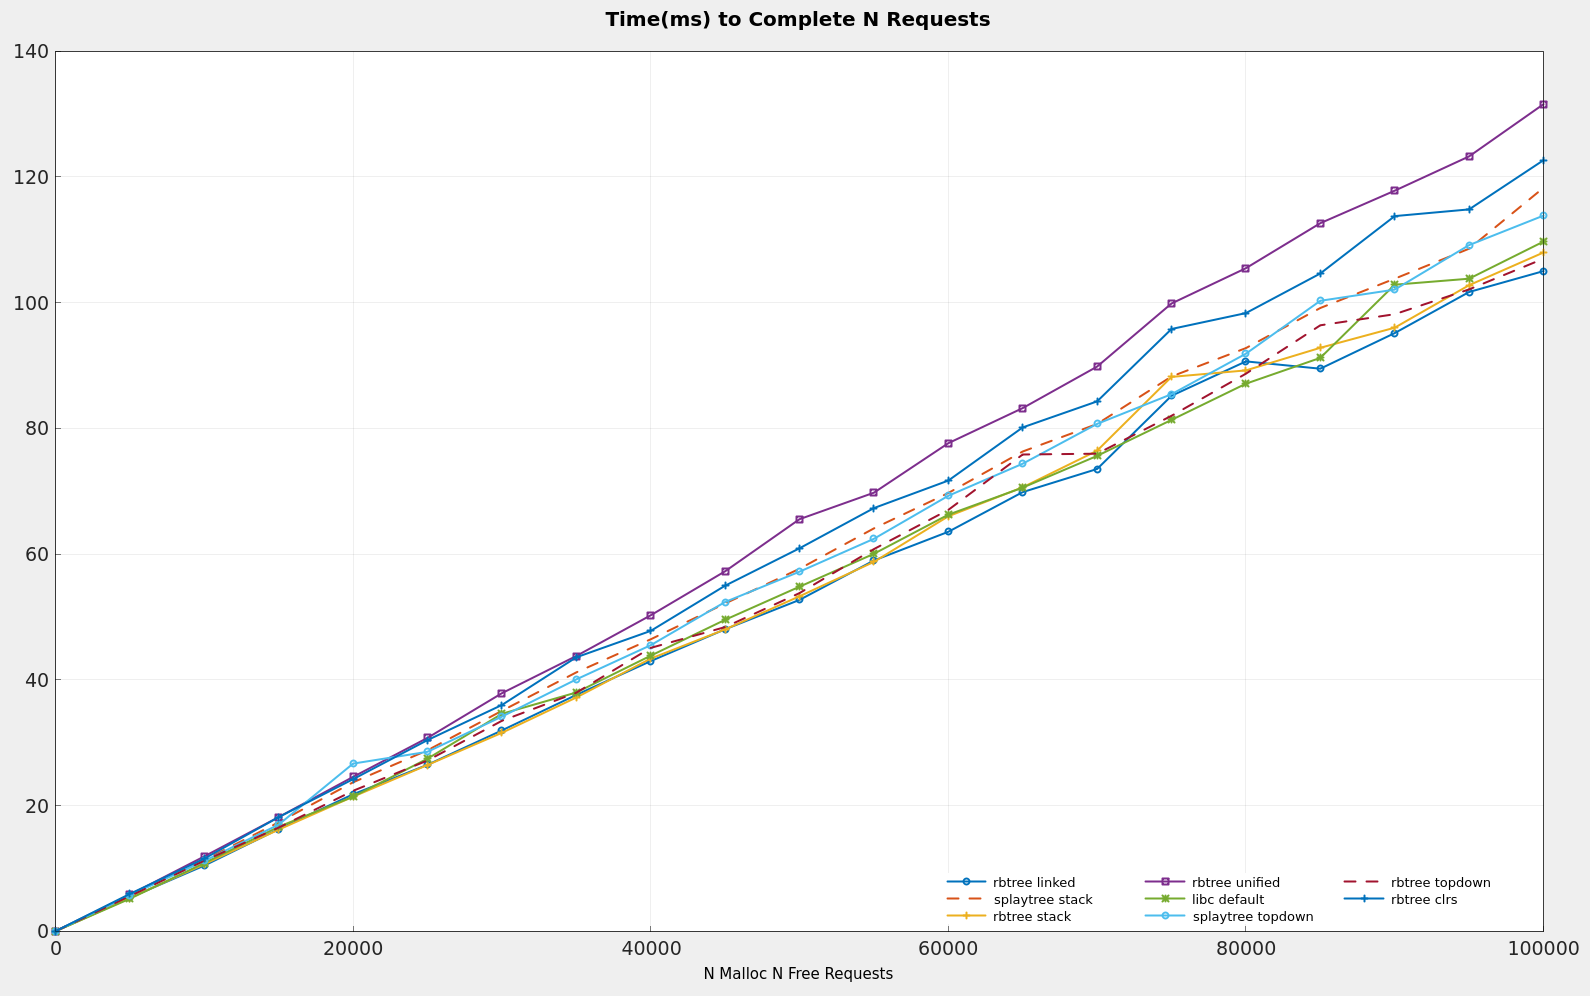
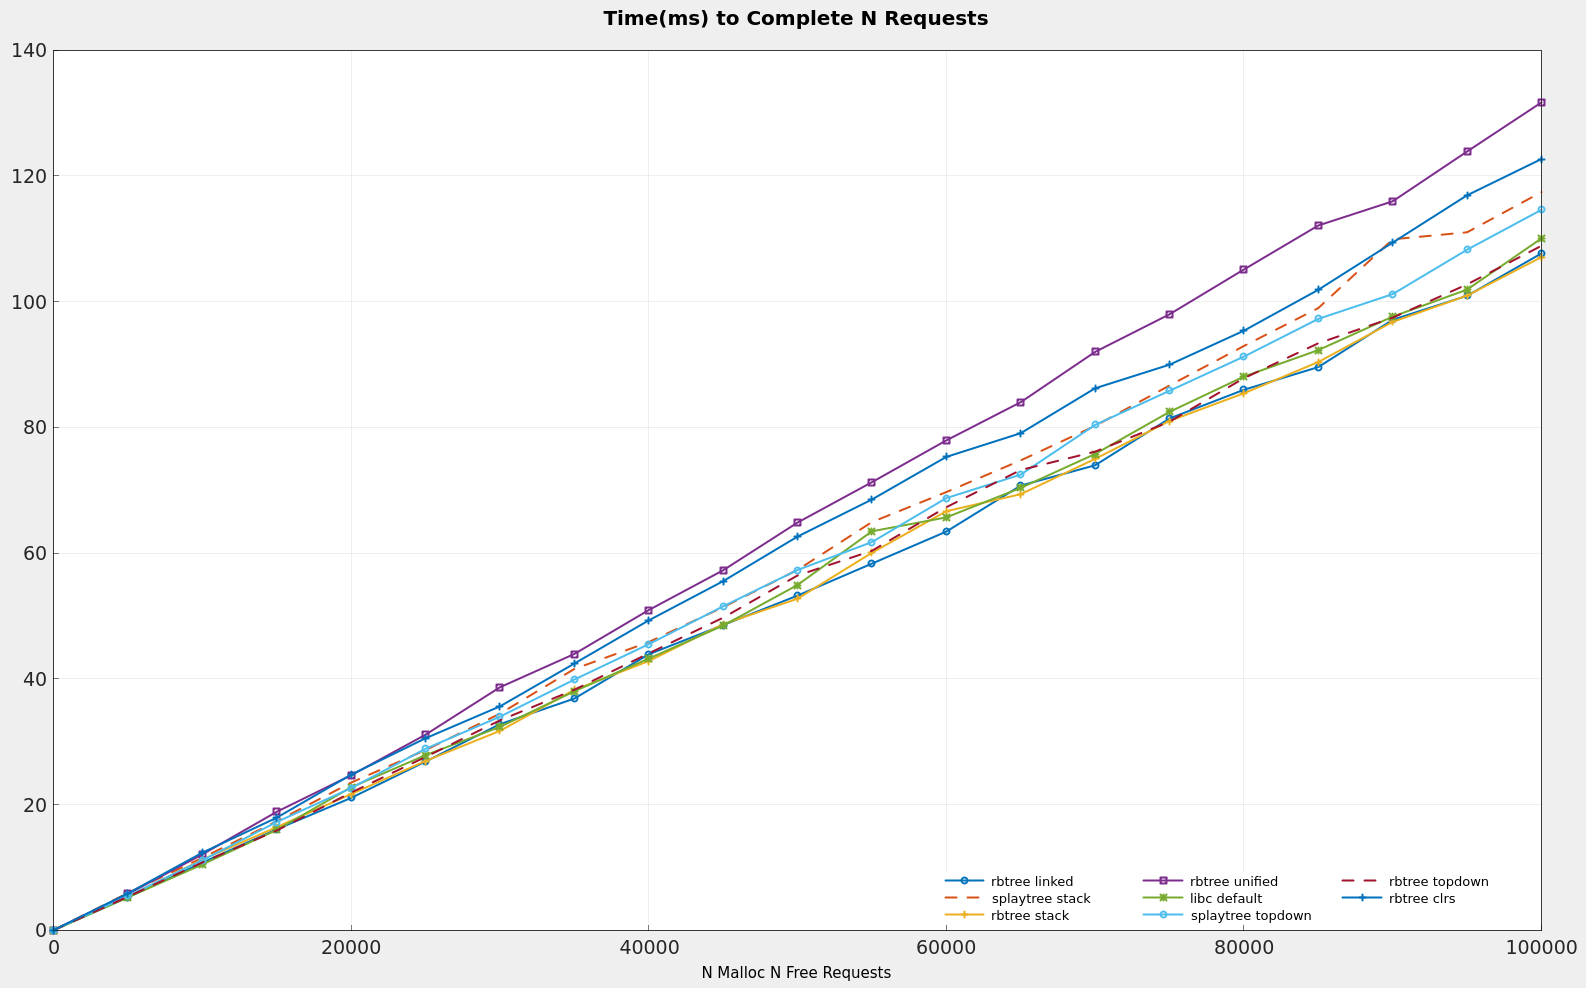
add graph

diff --git a/tests/plot.cc b/tests/plot.cc
@@ -584,9 +584,6 @@ void line_plot_stats( const runtime_metrics &m, data_set_type t, labels l, bool 
     axes->font_size( 14.0 );
     size_t tick_style = 0;
     for ( const auto &allocator : set( m, t ).second ) {
-        if ( allocator.first == "list segregated" ) {
-            continue;
-        }
         // Now we grab a "plot" where we want to put our actual data with x data and y data.
         auto plot = axes->plot( x_axis( m.overall_utilization ), allocator.second, line_ticks.at( tick_style ) );
         plot->line_width( 2 );
@@ -605,7 +602,7 @@ void line_plot_stats( const runtime_metrics &m, data_set_type t, labels l, bool 
     ::matplot::legend()->location( matplot::legend::general_alignment::bottomright );
     ::matplot::legend()->num_rows( 3 );
     ::matplot::legend()->box( false );
-    ::matplot::legend()->font_size( 12.0 );
+    ::matplot::legend()->font_size( 14.0 );
     p->size( 1920, 1080 );
     p->save( std::string( l.filename ) );
     matplot::hold( false );

diff --git a/docs/runtime_analysis.md b/docs/runtime_analysis.md
@@ -52,19 +52,19 @@ Here are the key details from the above graph.
 - Lower time in milliseconds is better.
 - The time complexity of inserting and deleting N elements into our tree is O(NlgN).
   - We may also see some extra time cost from breaking off extra space from a block that is too large and reinserting it into the tree. However, this is hard to predictably measure and does not seem to have an effect on the Big-O time complexity.
-- We see an improvement of ~10% in runtime speed when we manage duplicates with a doubly linked list to trim the tree.
-- The top-down approach to managing a Red-Black tree is not the fastest in terms of inserting and deleting from the tree, but it is extremely competitive.
+- We see a slight improvement in runtime speed when we manage duplicates with a doubly linked list to trim the tree.
+- The top-down approach to managing a Red-Black and Splay tree is not the fastest in terms of inserting and deleting from the tree, but it is extremely competitive.
 - These allocators clearly outperform the standard segregated fits allocator. However, it is tricky to pin down the runtime time complexity of the segregated list allocator exactly. It approaches an O(N^2) time complexity.
 
-Recall from the allocator summaries that we are required to manage duplicates in a Red-Black tree if we decide to abandon the parent field of the traditional node. The two approaches that trade the parent field for the pointer to a linked list of duplicates perform admirably: `rbtree_top-down` and `rbtree_stack`. The top-down approach is still an improvement over a traditional Red-Black tree, but surprisingly, the stack implementation that relies on the logical structure of the CLRS Red-Black tree is the winner in this competition. While I thought the `rbtree_linked` approach that uses a field for the `*parent`, `links[LEFT]`, `links[RIGHT]`, and `*list_start` would be the worst in terms of space efficiency, I thought we would gain some speed overall. We still need to measure coalescing performance, but this makes the `rbtree_linked` implementation seem the most pointless at this point if the same speed can be achieved with more space efficiency.
+Recall from the allocator summaries that we are required to manage duplicates in a Red-Black and Splay tree if we decide to abandon the parent field of the traditional node. The approaches that trade the parent field for the pointer to a linked list of duplicates perform admirably: `rbtree_top-down` and `rbtree_stack`. The top-down approach is still an improvement over a traditional trees, but surprisingly, the stack implementation that relies on the logical structure of the CLRS Red-Black tree is also close. While I thought the `rbtree_linked` approach that uses a field for the `*parent`, `links[LEFT]`, `links[RIGHT]`, and `*list_start` would be the worst in terms of space efficiency, I thought we would gain some speed overall and that seems to be the case. We still need to measure coalescing performance, but this makes the `rbtree_linked` implementation seem the most pointless at this point if the same speed can be achieved with more space efficiency or other approaches. It is truly back and forth for first place among the three top allocators.
 
-Finally, the performance gap scales as a percentage, meaning we will remain about %10 faster when we manage duplicates to trim the tree even when we are dealing with millions of elements and our times have increased greatly. Managing duplicates in a linked list with only the use of one pointer is a worthwhile optimization. Revisit any summary of the last three allocators if you want more details on how this optimization works.
+Managing duplicates in a linked list with only the use of one pointer is a worthwhile optimization. Revisit any summary of the last three allocators if you want more details on how this optimization works.
 
-On a per request basis, we can observe the speedup in an allocator like `rbtree_linked`. Recall the earlier graph I showed of the CLRS implementation completing 1 million insertions and deletions from the tree. Here is the graph illustrating the speedup we gain with these optimizations. The times often fall too low to be consistently measurable and there is far less jumping up in time to complete a request.
+On a per request basis, we can observe the speedup in an allocator like `rbtree_linked`. Here is a graph illustrating the average response time over the same interval.
 
-![rb-time-per-request-1m-linked](/images/rb-time-per-request-1m-linked.png)
+![response-zoom](/images/response-zoom.png)
 
-*Pictured Above: Two graphs. The top represents the number of free nodes over a script's lifetime and the bottom represents the time to complete a single request over the script's lifetime.*
+*Pictured Above: Average response time over a malloc/free interval.*
 
 ## Coalescing
 
